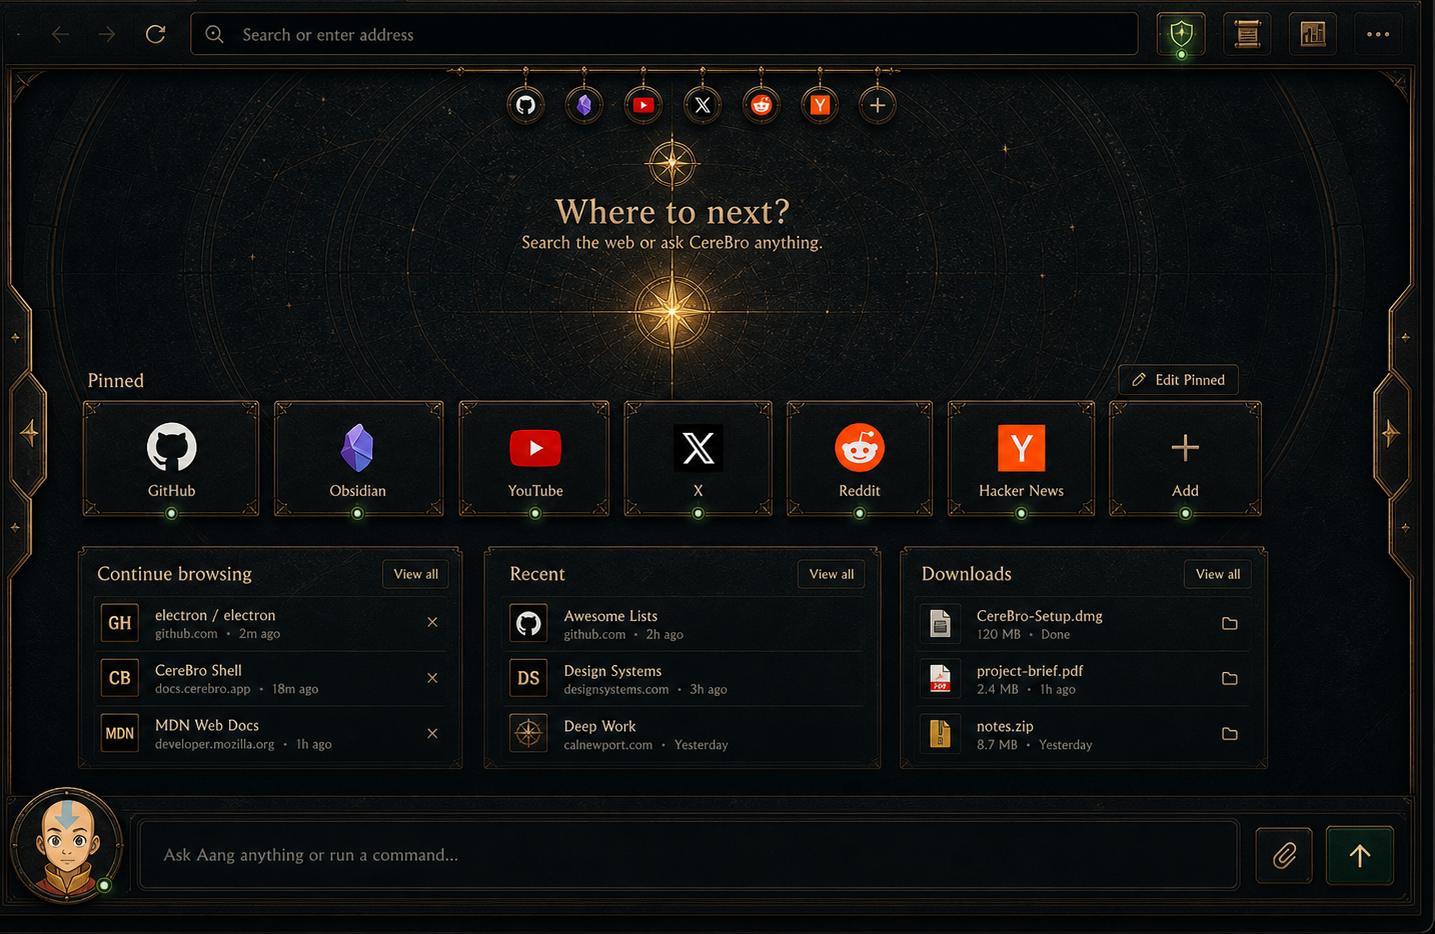
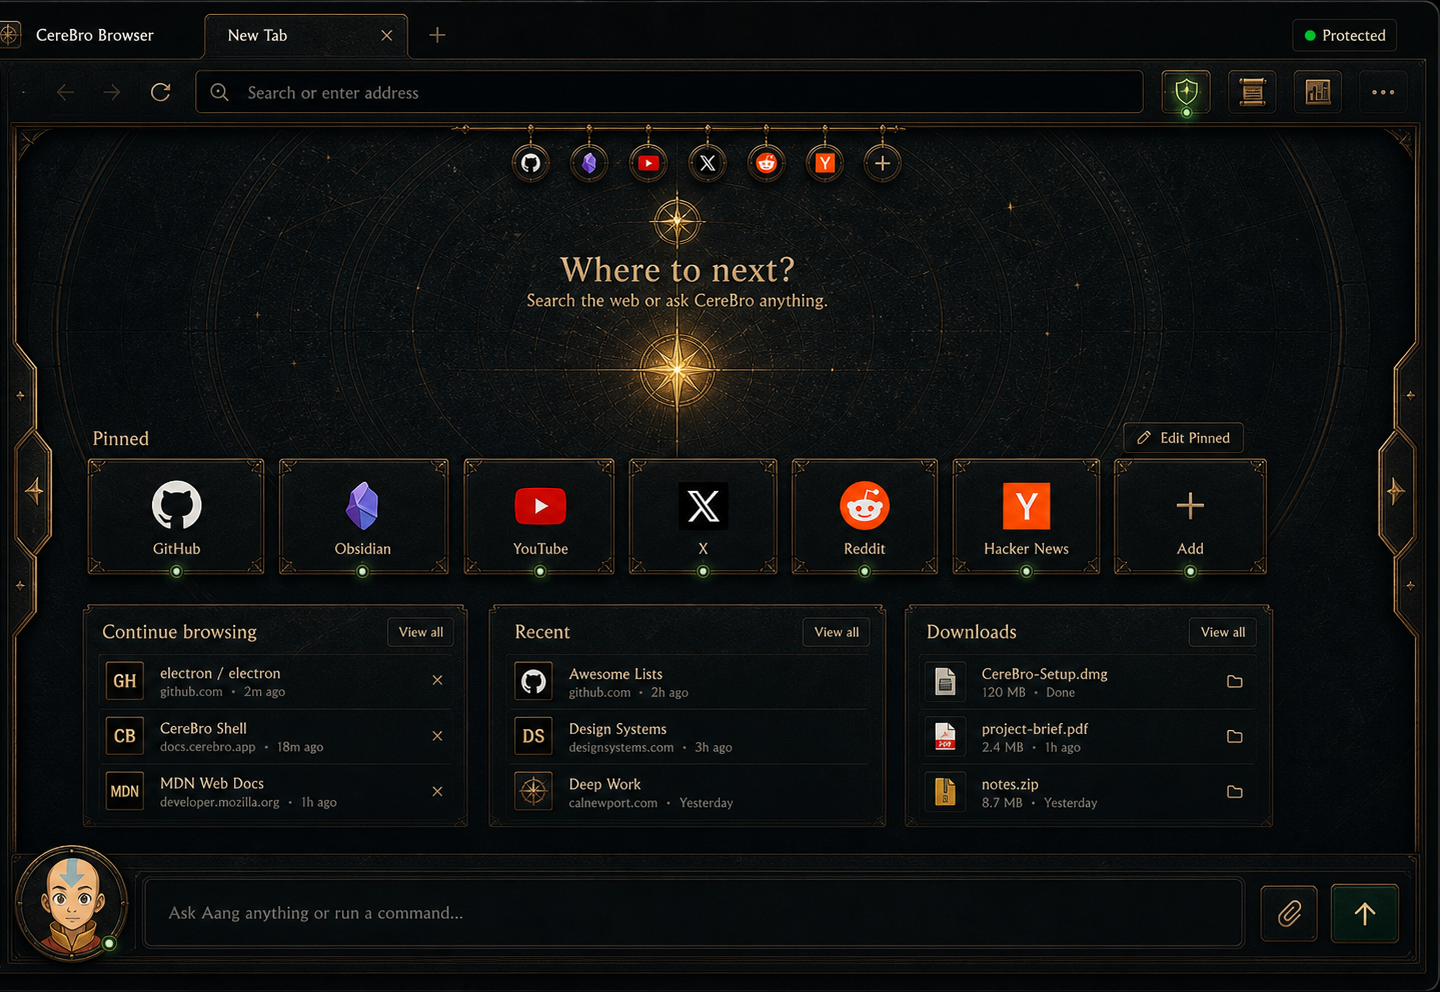
fix: align browser home full mockup frame

diff --git a/app/client/src/pages/Home.tsx b/app/client/src/pages/Home.tsx
@@ -448,9 +448,11 @@ export default function Home() {
           className="w-[68px] flex flex-col shrink-0 overflow-hidden"
           aria-label="CereBro zones"
           style={{
-            background: "linear-gradient(180deg, rgba(6, 12, 10, 0.98), rgba(3, 7, 7, 0.99))",
-            borderRight: `1px solid ${mockupShell.marbleLine}`,
-            boxShadow: "inset -1px 0 0 rgba(244, 239, 227, 0.04)",
+            background: isBrowserRoute
+              ? "url('/browser-home/browser-home-reference-rail.png') center / 100% 100% no-repeat"
+              : "linear-gradient(180deg, rgba(6, 12, 10, 0.98), rgba(3, 7, 7, 0.99))",
+            borderRight: isBrowserRoute ? 0 : `1px solid ${mockupShell.marbleLine}`,
+            boxShadow: isBrowserRoute ? "none" : "inset -1px 0 0 rgba(244, 239, 227, 0.04)",
           }}
         >
           <div className="flex-1 overflow-y-auto p-1.5 space-y-1.5">
@@ -464,7 +466,7 @@ export default function Home() {
                   onClick={() => setNav(item.id)}
                   aria-label={`Open ${item.label}`}
                   aria-current={isActive ? "page" : undefined}
-                  className="relative h-[58px] w-full flex-col justify-center gap-1 overflow-hidden rounded px-1 py-1 text-center"
+                  className={`relative h-[58px] w-full flex-col justify-center gap-1 overflow-hidden rounded px-1 py-1 text-center ${isBrowserRoute ? "opacity-0" : ""}`}
                   variant="ghost"
                   style={{
                     background: isActive
@@ -501,7 +503,7 @@ export default function Home() {
             })}
           </div>
           <div
-            className="mx-1.5 mb-1.5 rounded px-1 py-1.5 text-center uppercase tracking-wider"
+            className={`mx-1.5 mb-1.5 rounded px-1 py-1.5 text-center uppercase tracking-wider ${isBrowserRoute ? "opacity-0" : ""}`}
             style={{ border: `1px solid ${mockupShell.marbleLineSoft}`, background: mockupShell.plaque, color: C.textMuted, boxShadow: mockupShell.bevel }}
           >
             <div className="text-[8px] leading-none" style={{ color: C.gold }}>CereBro OS</div>
